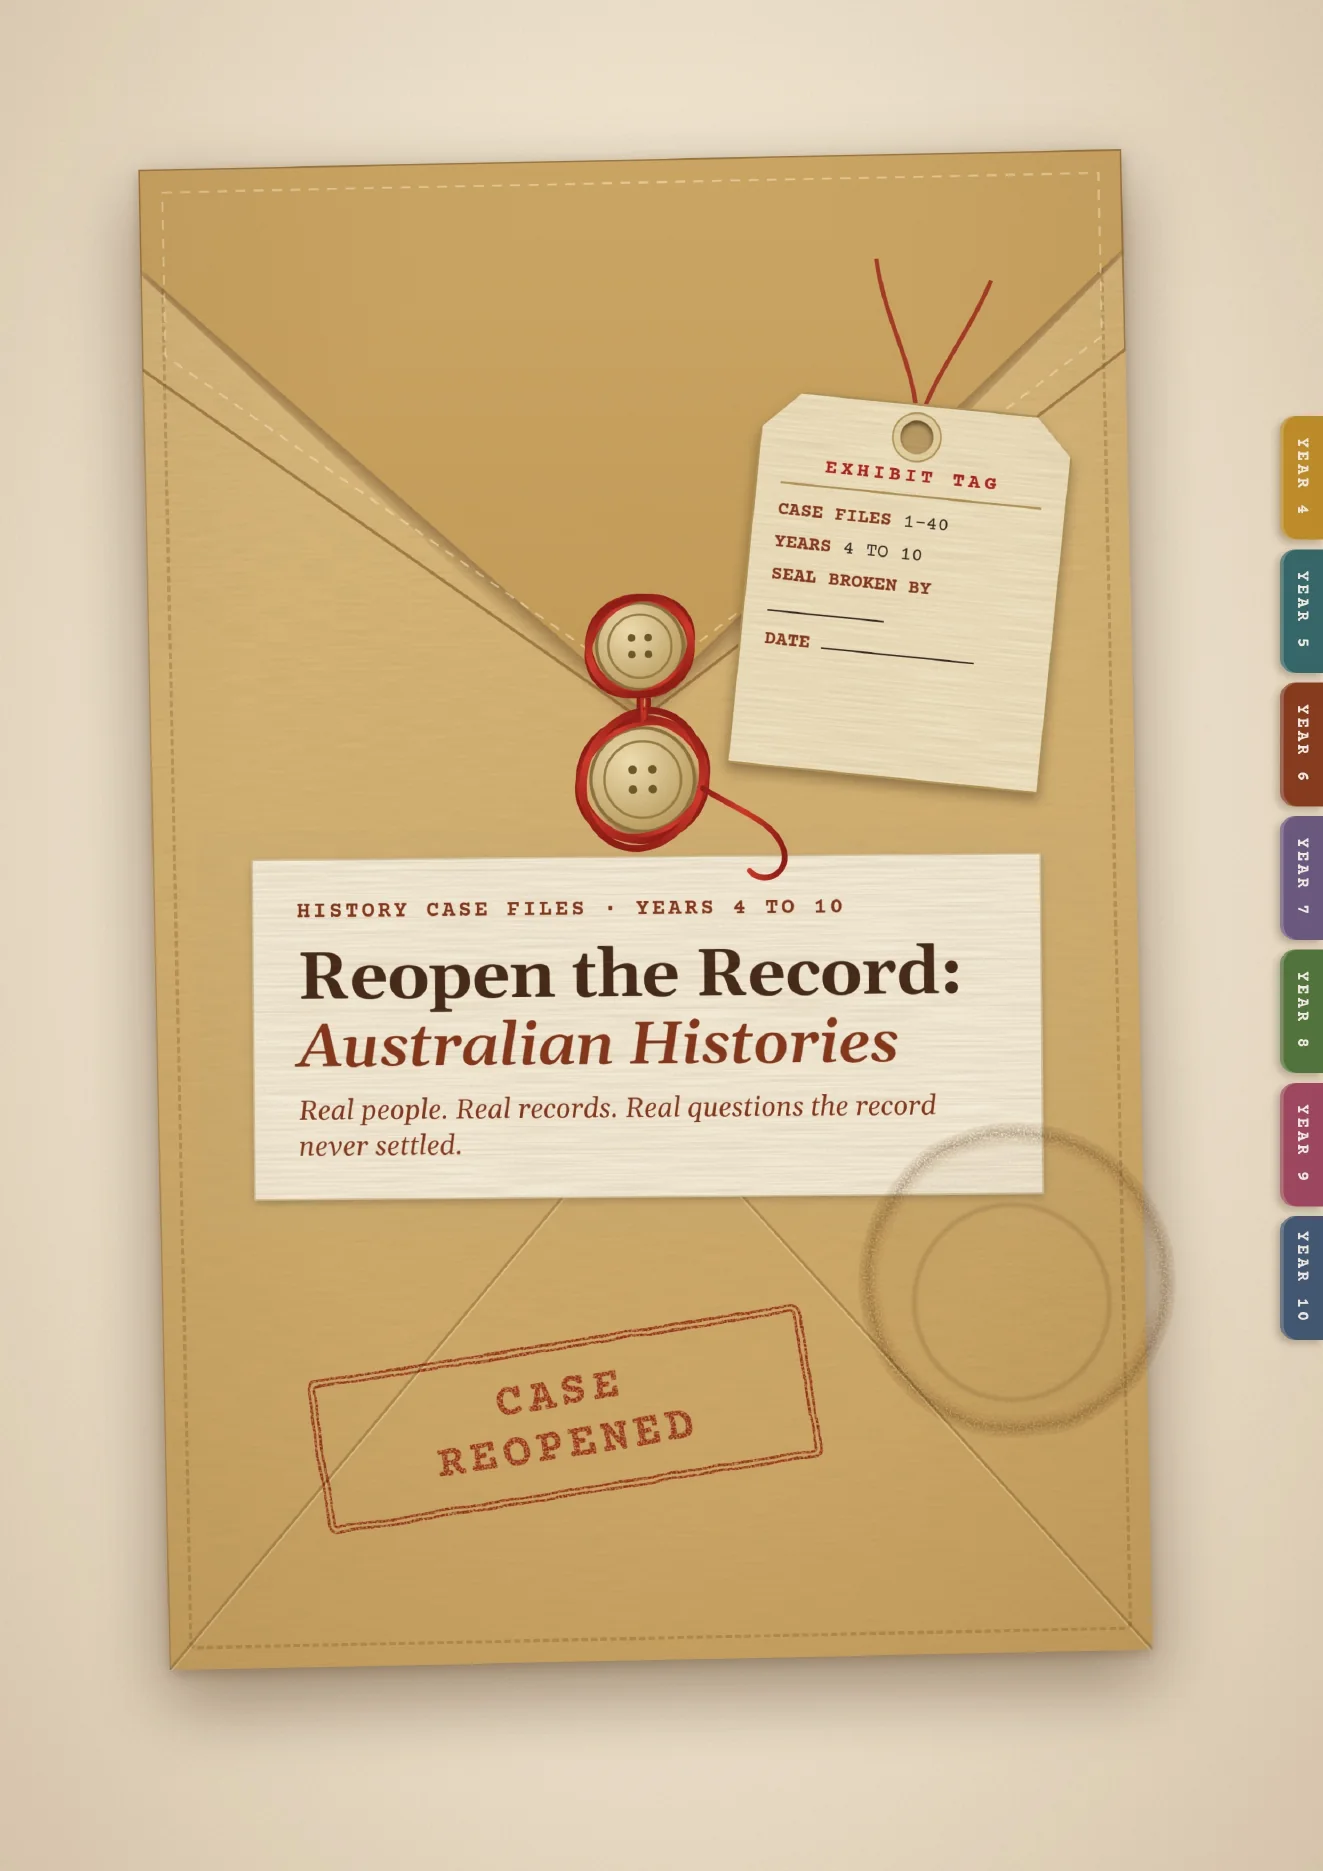
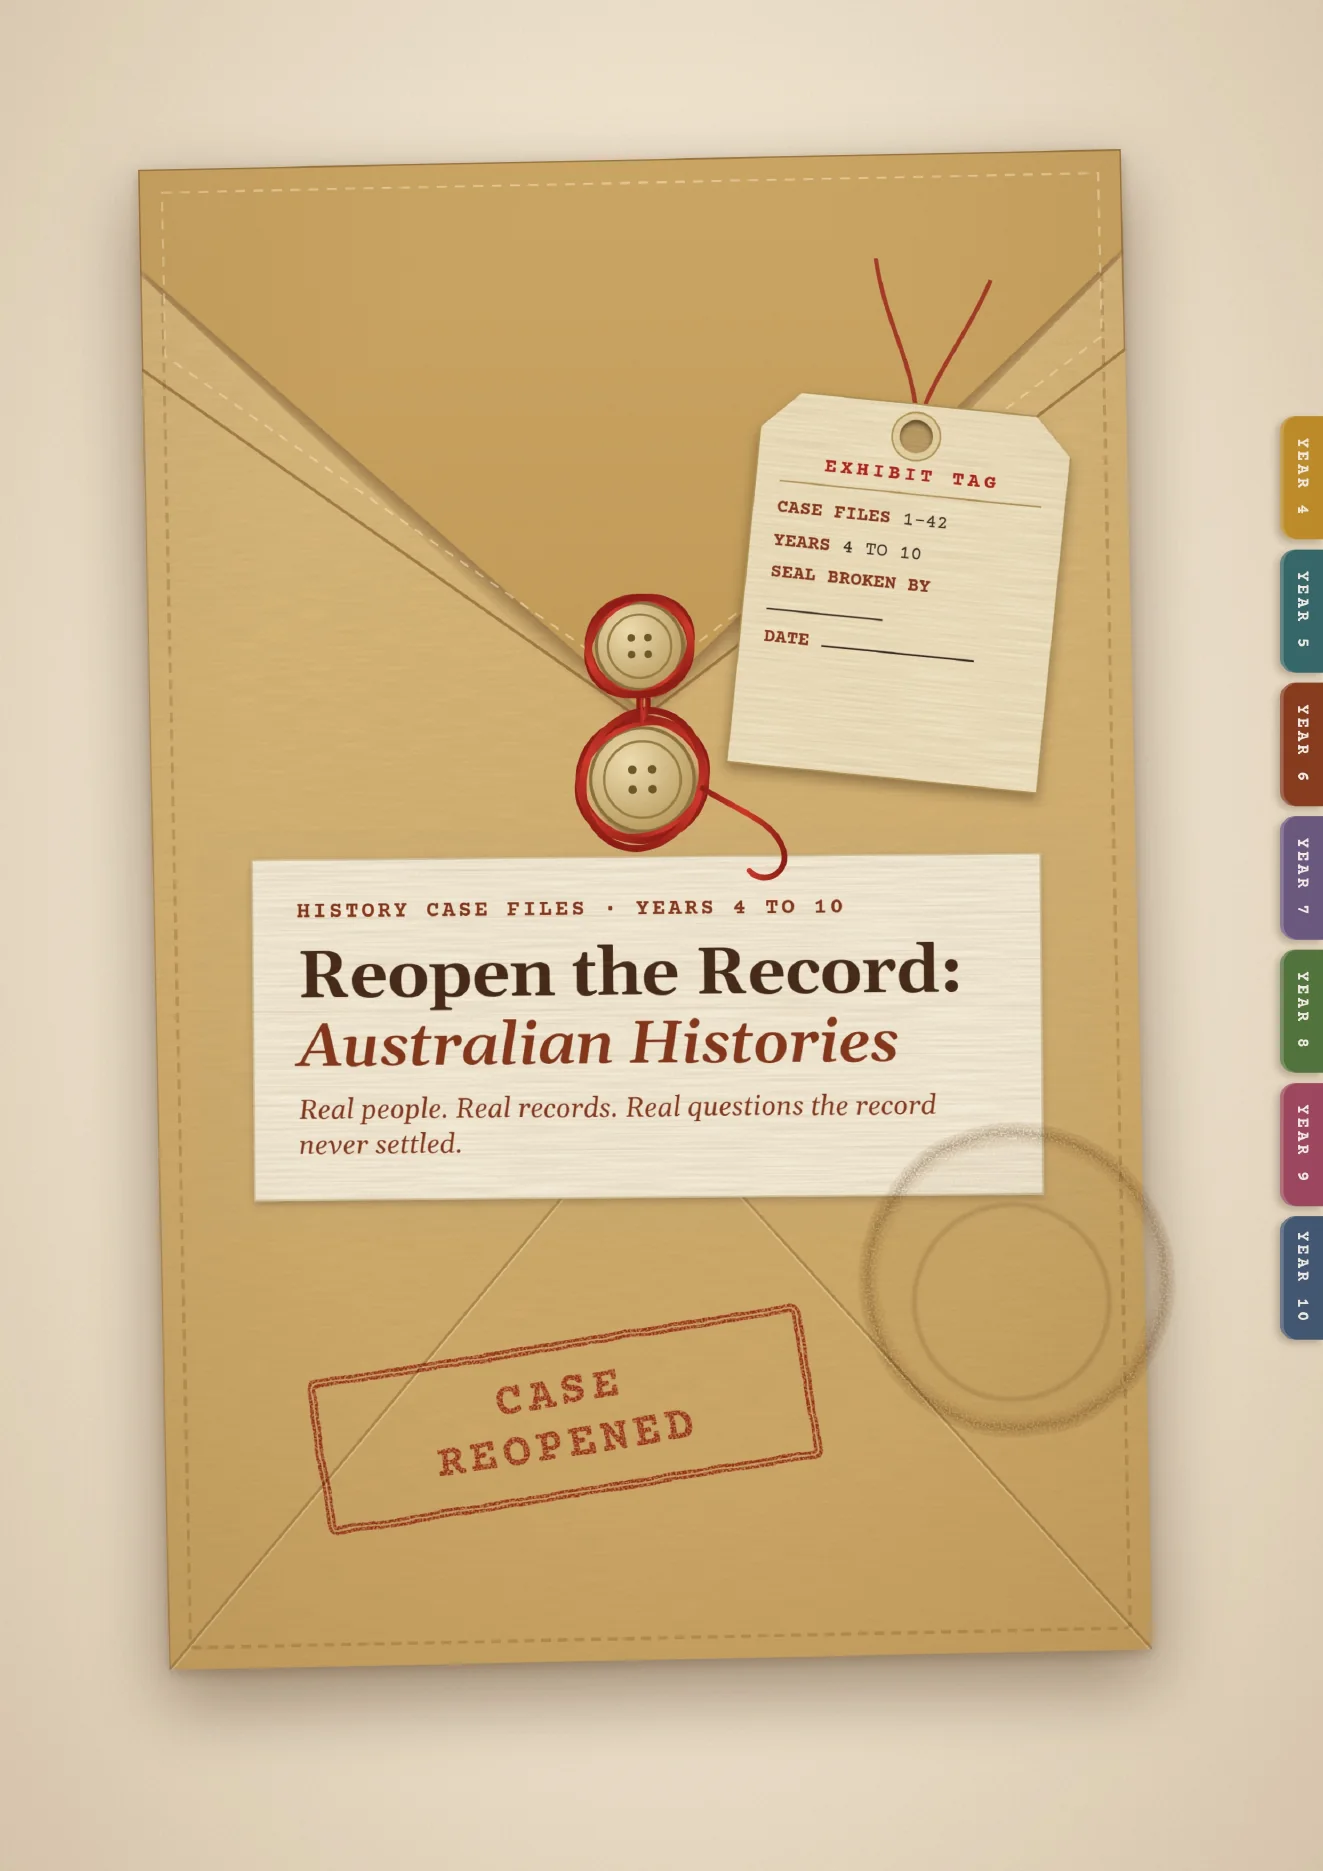
Keep the book out of search engines and update the cover to 42 cases
Add noindex, nofollow and a Disallow-all robots.txt. Replace the
cover page image so the exhibit tag reads CASE FILES 1–42.

diff --git a/index.html b/index.html
@@ -6,7 +6,7 @@
   <title>Reopen the Record: Australian Histories</title>
   <meta name="description" content="A sample book of forty-two Australian history case files for Years 4 to 10. Real people. Real records. Real questions the record never settled.">
   <meta name="theme-color" content="#4a2e1b">
-  <meta name="robots" content="noindex">
+  <meta name="robots" content="noindex, nofollow">
   <link rel="canonical" href="https://robmac10.github.io/reopen-the-record/">
   <meta property="og:title" content="Reopen the Record: Australian Histories">
   <meta property="og:description" content="Real people. Real records. Real questions the record never settled. A sample book of history case files for Years 4 to 10.">
